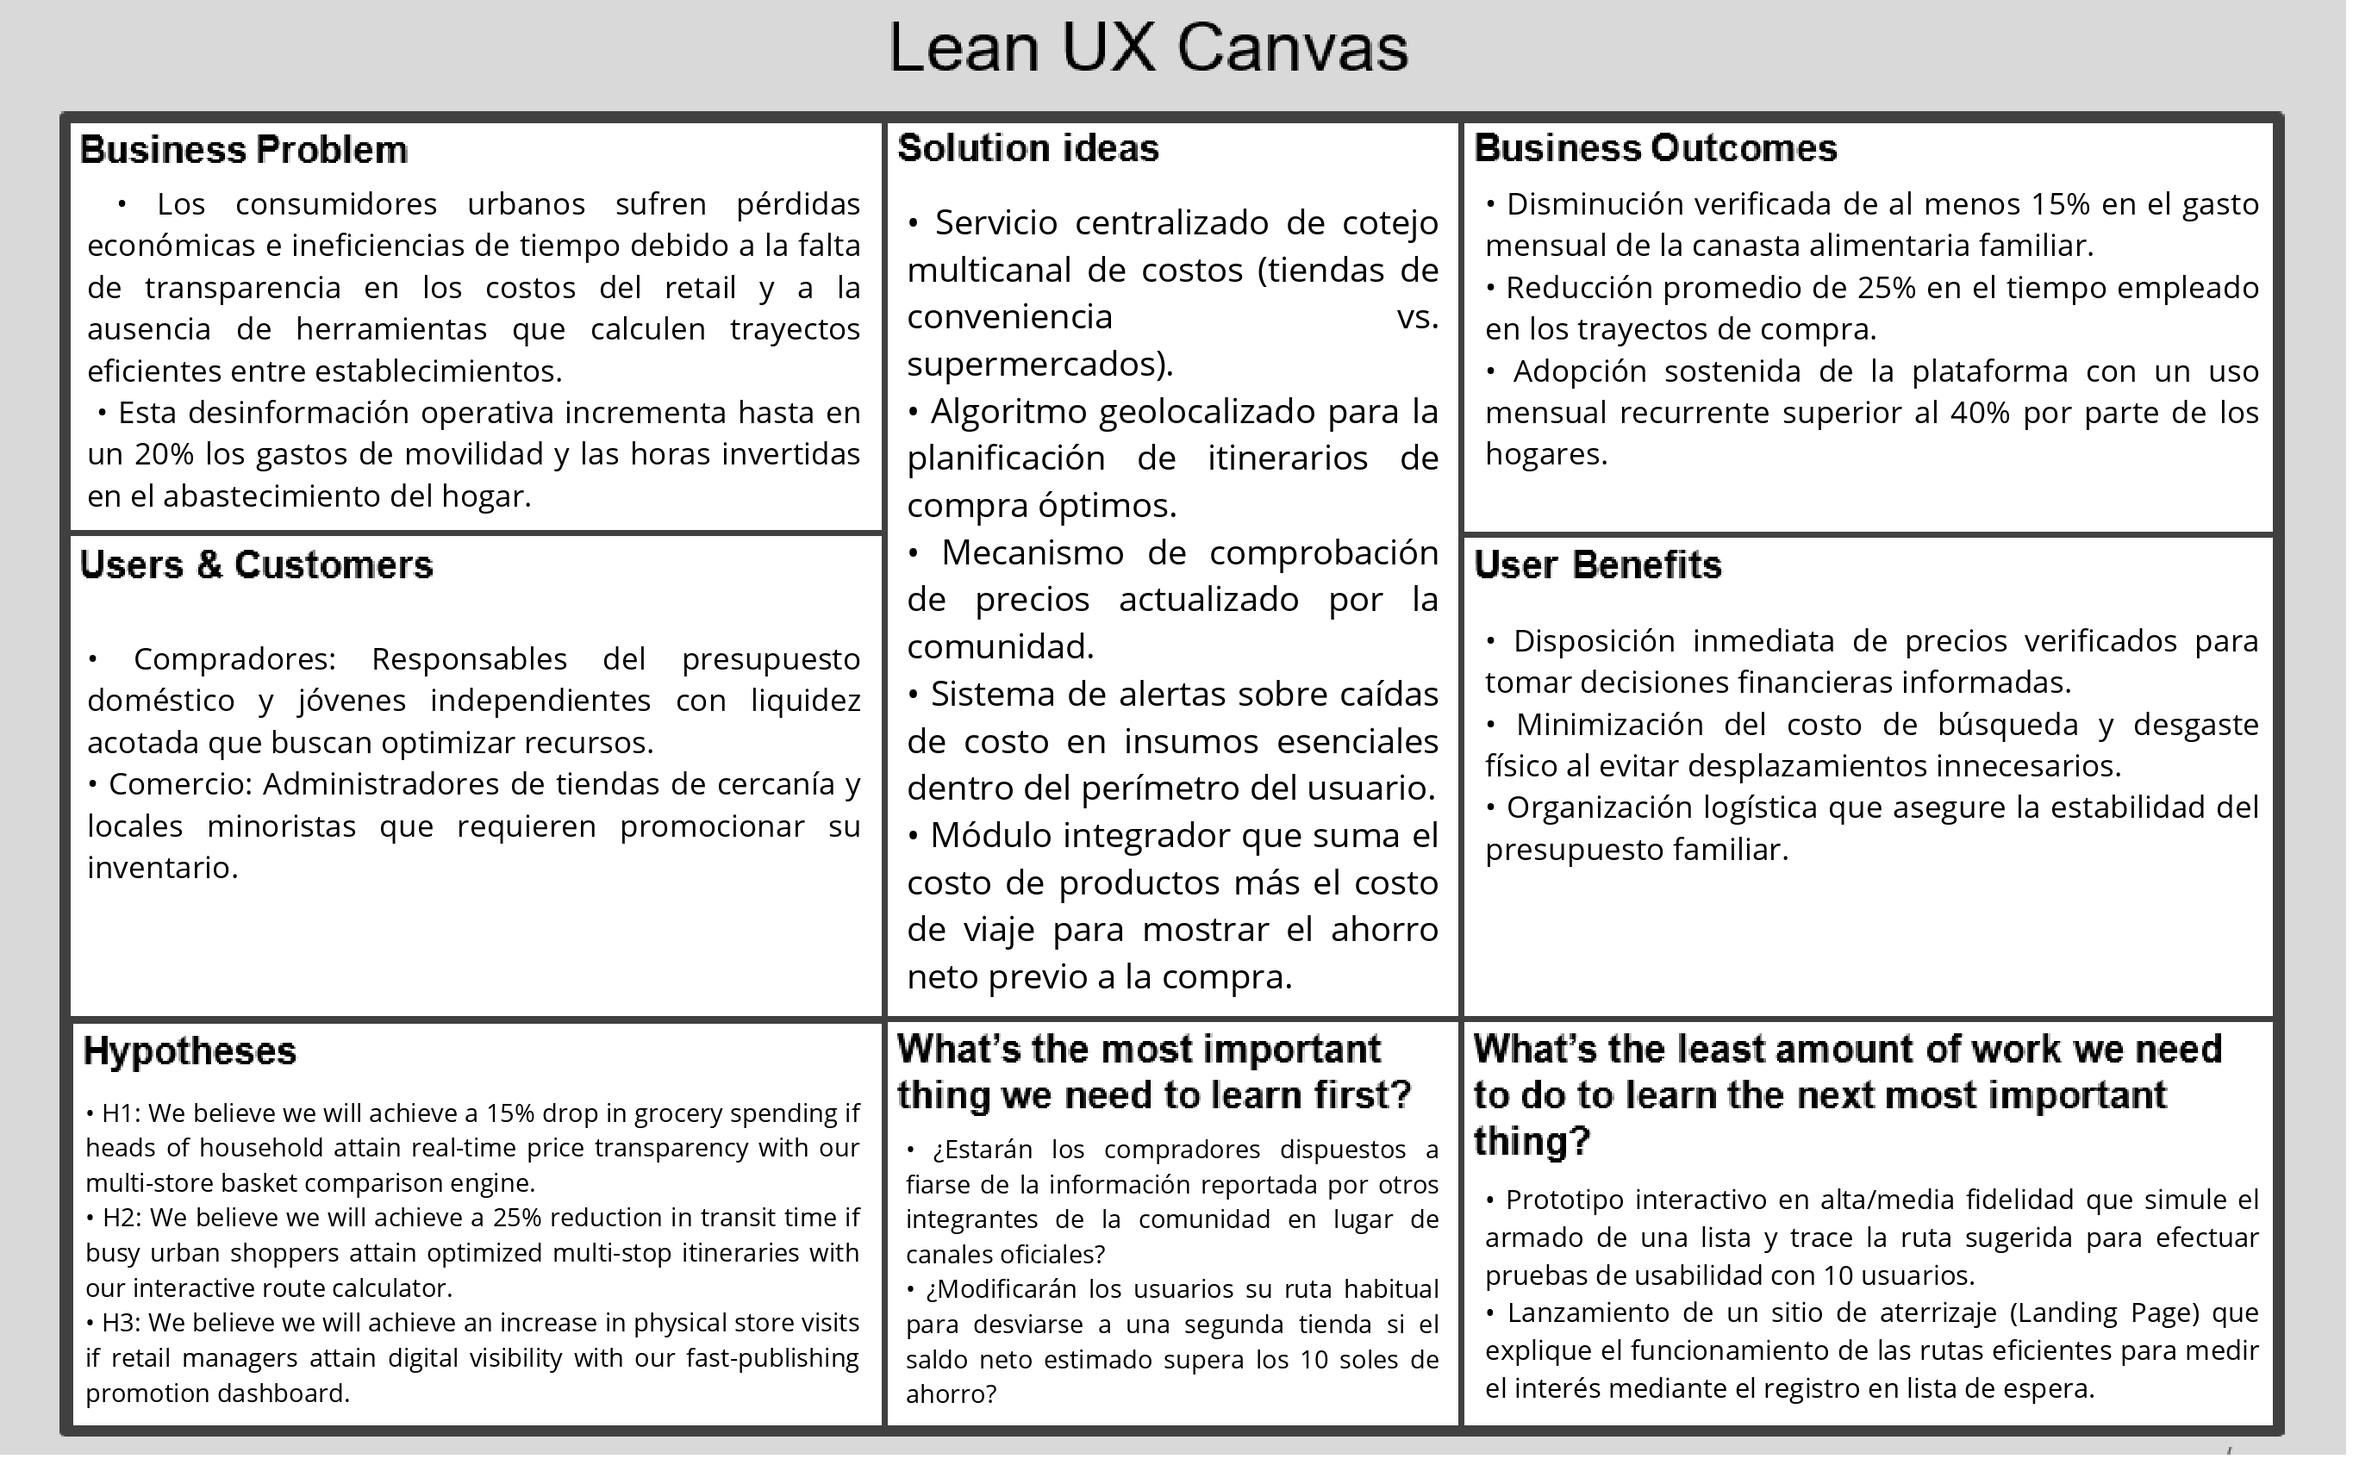
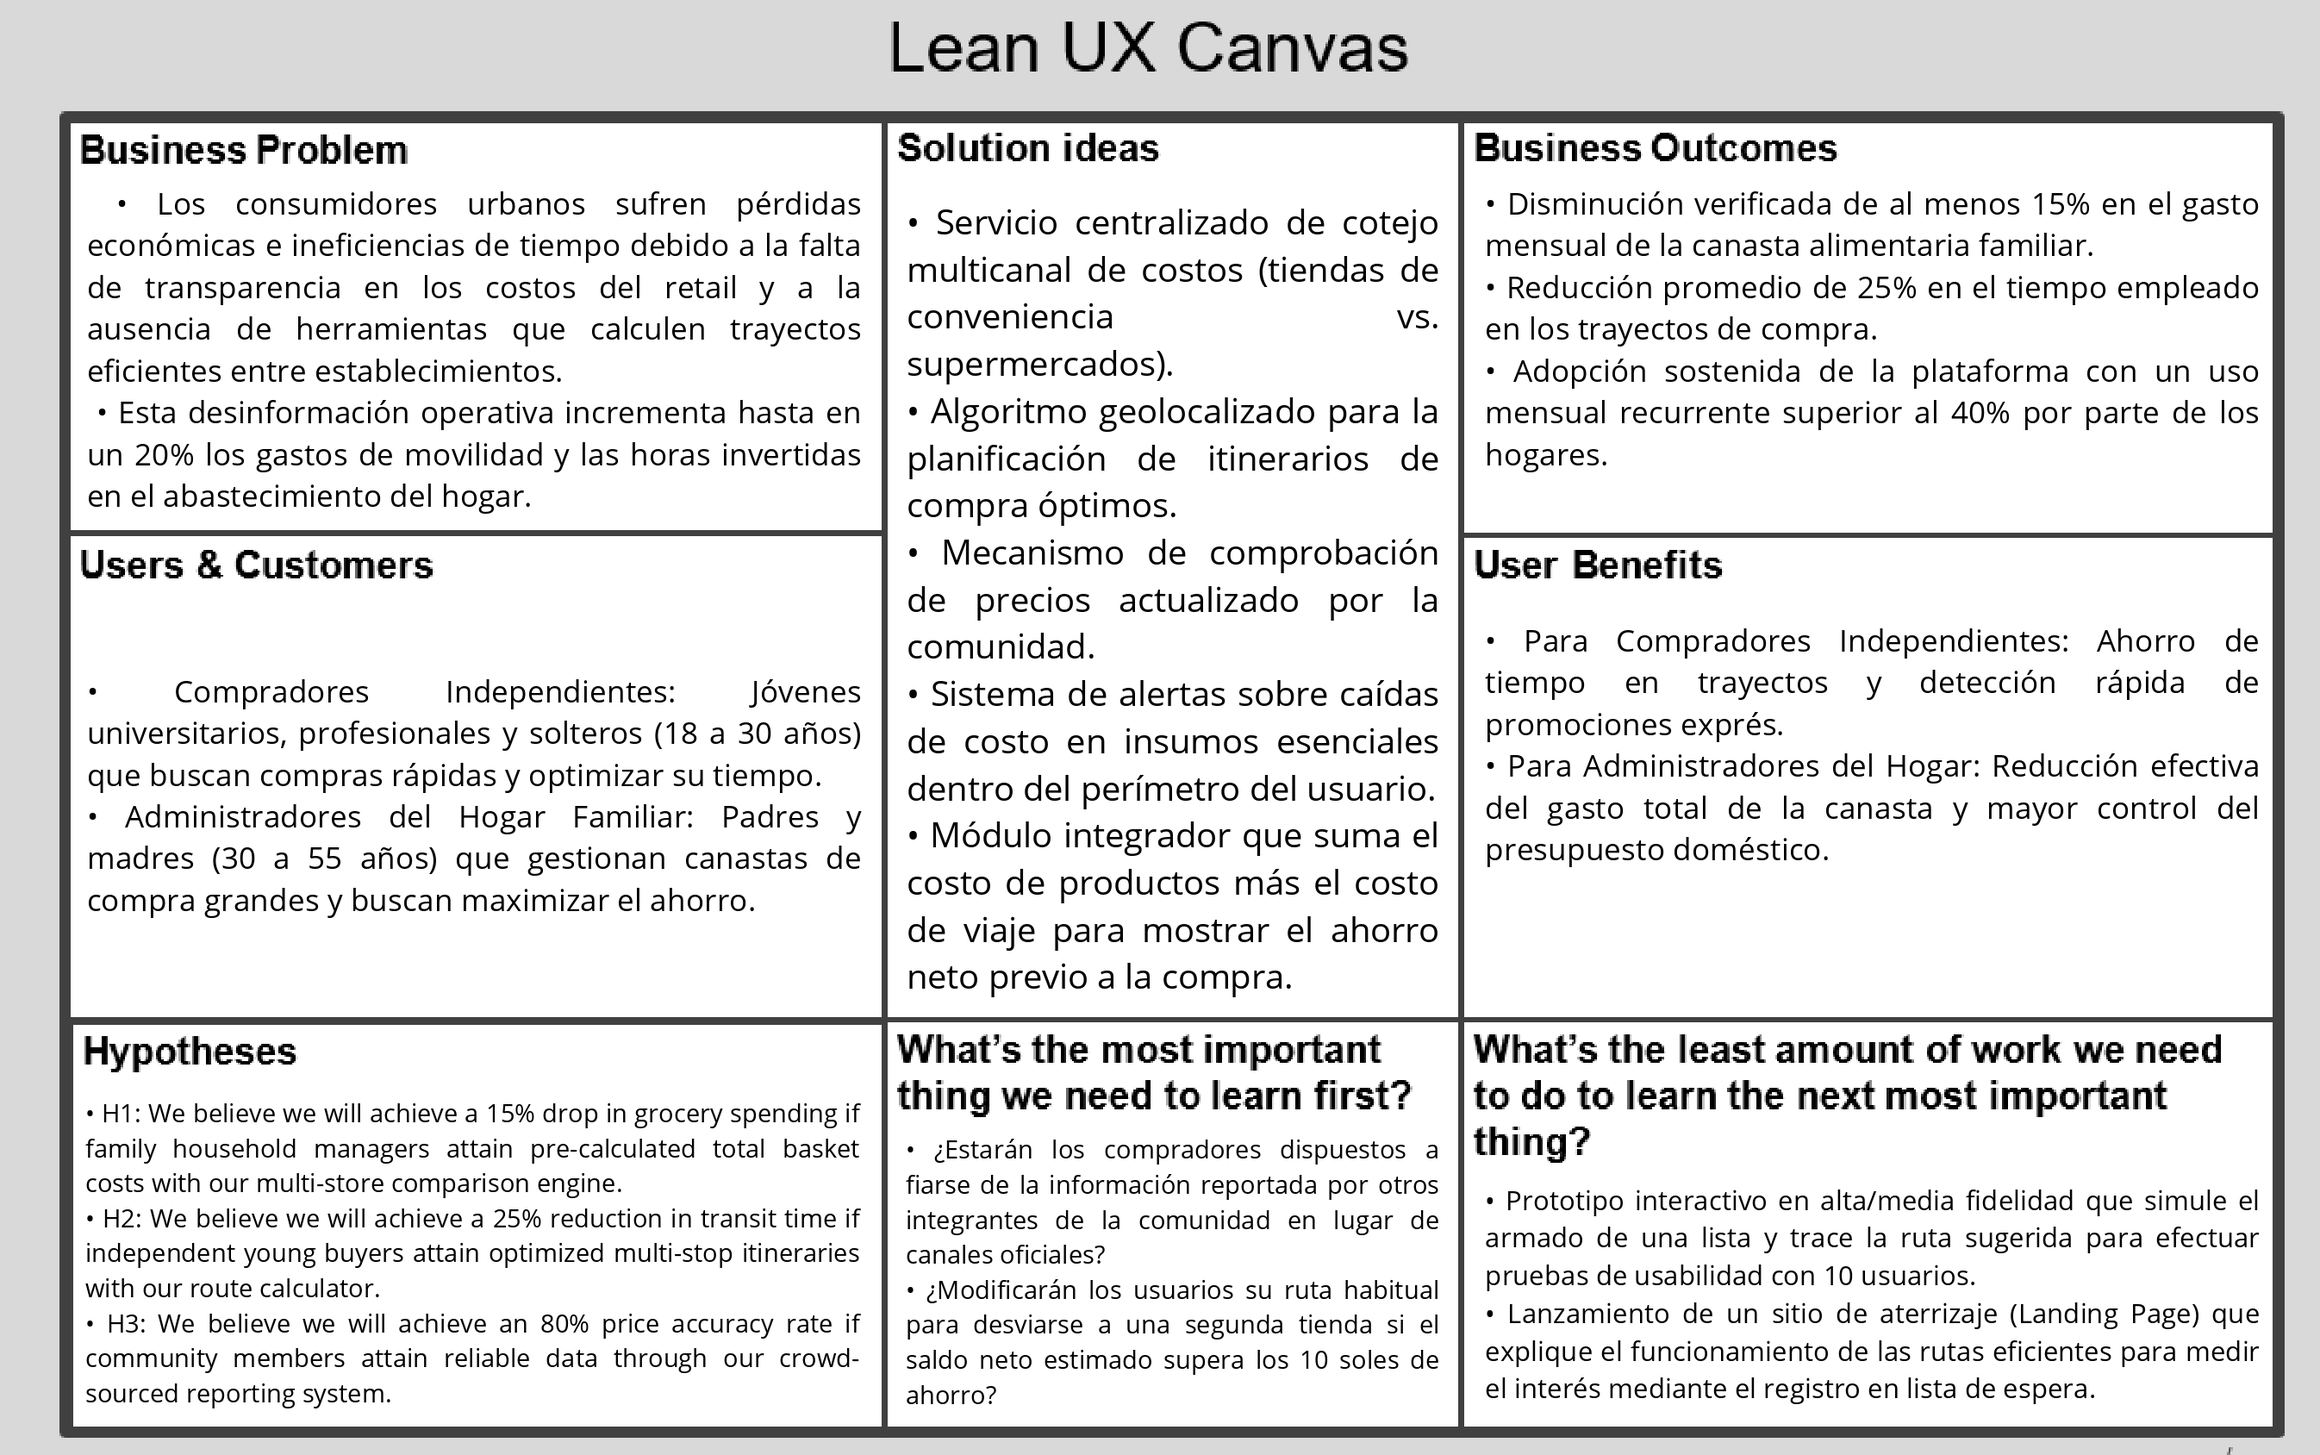
docs: update and refine chapter 1 content

Changed region(s): [[0.0, 0.0, 1.0, 1.0]]

diff --git a/docs/informe.md b/docs/informe.md
@@ -241,8 +241,8 @@ Poseo experiencia en en el lenguaje C++ y Python, lo que me permite contribuir e
 
 ### 1.2.1. Antecedentes y problemática
 *   **Who? (¿Quién?):**
-    *   *Consumidores:* Estudiantes, jóvenes profesionales y responsables del abastecimiento en hogares de Lima Metropolitana que cuentan con un presupuesto ajustado y buscan optimizar su tiempo libre.
-    *   *Comerciantes:* Administradores y encargados de tiendas de conveniencia (Tambo, Oxxo, Listo) y cadenas de supermercados o discounters (Mass, Plaza Vea, Metro) que necesitan promocionar su inventario local, evitar la merma de productos y atraer más clientes a sus locales físicos.
+    *   *Compradores Independientes:* Jóvenes universitarios, profesionales y adultos independientes (18 a 30 años) con presupuesto acotado y disponibilidad de tiempo reducida que realizan compras frecuentes de menor volumen en establecimientos de cercanía.
+    *   *Administradores del Hogar Familiar:* Padres, madres o encargados del presupuesto doméstico (30 a 55 años) que gestionan listas de compra complejas y de alto volumen (semanales o mensuales) para sus familias y buscan maximizar el ahorro acumulado.
 *   **What? (¿Qué?):** La falta de información clara sobre precios y la ineficiencia al planificar los recorridos de compra en el comercio minorista. Actualmente existe una diferencia marcada entre los precios publicados en internet y los costos reales en los estantes de las tiendas. A esto se suma que las personas no tienen una forma sencilla de comparar el costo total de su lista entre varios comercios cercanos. Esta desconexión genera gastos dobles: se paga más por los productos y se gasta dinero y tiempo extra en desplazamientos mal organizados para intentar conseguir ofertas (BCRP, 2025; INEI, 2026).
 *   **Where? (¿Dónde?):** El problema se concentra en distritos y zonas urbanas de Lima con alta presencia comercial, donde existen múltiples tiendas a pocas cuadras de distancia. La solución está dirigida a personas con acceso a teléfonos inteligentes y a administradores de locales que quieren mejorar la visibilidad de su tienda en su zona cercana.
 *   **When? (¿Cuándo?):** Ocurre cada vez que las familias organizan sus compras de la semana o cuando necesitan reponer productos de manera rápida. La situación se vuelve crítica durante los fines de semana o en días de promociones especiales, cuando el inventario cambia rápido y las ofertas varían sin previo aviso.
@@ -256,17 +256,17 @@ El proceso de Lean UX adoptado por PeruTech busca validar de forma rápida y con
 
 #### 1.2.2.1. Lean UX Problem Statements
 
-> **The current state of** retail shopping and local store management in Lima Metropolitan Area **has focused mainly on** individual supermarket discounts, traditional physical price browsing, and isolated mobile delivery apps that prioritize home delivery fees over local store foot traffic.  
-> **What existing products/services fail to address is** the lack of a unified system that calculates the true total cost of a shopping trip—combining real-time store prices, multi-stop routing efficiency, and transit expenses—while giving local managers an agile channel to clear overstocked inventory.  
-> **Our product/service will address this gap by** providing a collaborative web platform that processes store prices, inventory updates, transportation costs, and user budget limits to generate the most efficient multi-store shopping route, while offering store managers a simple tool to announce local discounts.  
-> **Our initial focus will be** budget-conscious shoppers (students and young adults in Lima) and branch managers of proximity/convenience retail stores.  
-> **We’ll know we are successful when we see** budget-conscious shoppers regularly completing multi-store purchases using our generated routes and store managers actively updating local discount offers.
+> **The current state of** retail shopping and grocery planning in Lima Metropolitan Area **has focused mainly on** isolated supermarket discounts, traditional physical price browsing, and delivery apps that charge high service fees without optimizing multi-store routes.  
+> **What existing products/services fail to address is** the lack of a unified system that calculates the true total cost of a shopping trip—combining real-time store prices, multi-stop routing efficiency, and transit expenses—to help shoppers make cost-effective decisions.  
+> **Our product/service will address this gap by** providing a collaborative web platform, **SmartCart**, that processes store prices, inventory updates, transportation costs, and user budget limits to generate the most efficient multi-store shopping route.  
+> **Our initial focus will be** independent young buyers and family household managers in Lima Metropolitan Area.  
+> **We’ll know we are successful when we see** independent buyers and household managers regularly completing multi-store purchases using our generated routes and verified price data.
 
 #### 1.2.2.2. Lean UX Assumptions
 
 ##### Assumptions Worksheet
 *   **¿Quién es el usuario?**
-    El sistema atiende a dos grupos: compradores (jefes de hogar, estudiantes y jóvenes independientes) que quieren hacer rendir mejor su dinero, y administradores de tiendas de conveniencia o supermercados que necesitan mover su inventario local más rápido.
+    El sistema atiende a dos perfiles de compradores urbanos: **Compradores Independientes** (jóvenes y profesionales que buscan rapidez y ofertas de cercanía) y **Administradores del Hogar Familiar** (gestores del presupuesto doméstico que planifican compras de mayor volumen).
 *   **¿Dónde encaja nuestro producto en su trabajo o vida?**
     Para las personas, entra en su rutina cuando preparan la lista del supermercado y cuando salen a hacer las compras. Para el encargado de tienda, se integra en sus labores diarias para dar salida a productos con alto stock.
 *   **¿Qué problemas resuelve nuestro producto?**
@@ -296,7 +296,7 @@ El proceso de Lean UX adoptado por PeruTech busca validar de forma rápida y con
 4.  Lograr que 6 de cada 10 tiendas participantes confirmen un aumento en la visita de clientes atraídos por las ofertas publicadas.
 
 ##### User Assumptions
-1.  **¿Quién es el usuario?** Hombres y mujeres de 18 a 50 años que realizan compras periódicas, y gestores de tiendas minoristas.
+1.  **¿Quién es el usuario?** Compradores independientes (18 a 30 años) y administradores del hogar familiar (30 a 55 años) pertenecientes a los niveles socioeconómicos B y C.
 2.  **¿Dónde encaja el producto?** Antes de salir a comprar y durante el recorrido por las tiendas.
 3.  **¿Qué problema resuelve?** Ayuda a elegir la mejor combinación de tiendas sin salirse del presupuesto disponible.
 4.  **¿Cuándo y cómo se usa?** Se consulta 1 o 2 veces por semana al momento de planificar las compras habituales.
@@ -314,27 +314,27 @@ El proceso de Lean UX adoptado por PeruTech busca validar de forma rápida y con
 
 #### 1.2.2.3. Lean UX Hypothesis Statements
 *   **Hypothesis Statement 1 (basado en Feature Assumption 1: Comparador de Canasta Integral):**
-    *   **We believe we will achieve** a 70% rate of active users completing at least one guided purchase in their first month and a overall platform user retention above 40%
-    *   **If** families and young adults managing a tight budget
-    *   **Attain** an accurate, pre-calculated total cost of their entire shopping list before leaving home
+    *   **We believe we will achieve** a 15% reduction in overall monthly grocery spending and a platform user retention rate above 40%
+    *   **If** family household managers handling high-volume shopping lists
+    *   **Attain** an accurate, pre-calculated total cost of their entire basket across multiple nearby stores
     *   **With** a comprehensive multi-store basket comparison engine (**Comparador de Canasta Integral**).
 
 *   **Hypothesis Statement 2 (basado en Feature Assumption 2: Calculador de Ruta con Límite de Gasto):**
-    *   **We believe we will achieve** an average reduction of 25% in the time users spend completing multi-store purchases
-    *   **If** urban shoppers looking to maximize both their time and money
-    *   **Attain** optimized shopping itineraries that strictly respect their maximum budget and transportation choices
+    *   **We believe we will achieve** an average reduction of 25% in total shopping trip duration
+    *   **If** independent young buyers with limited free time and mobility preferences
+    *   **Attain** optimized multi-stop shopping itineraries that strictly respect their maximum budget limit and travel mode
     *   **With** an interactive route calculator with budget caps (**Calculador de Ruta con Límite de Gasto**).
 
 *   **Hypothesis Statement 3 (basado en Feature Assumption 3: Validador de Precios por Usuarios):**
     *   **We believe we will achieve** an 80% price verification accuracy rate between reported shelf prices and actual checkout counter costs
-    *   **If** active members of the shopping community
-    *   **Attain** high trust in platform data accuracy and recognition for contributing real-time updates
+    *   **If** active users from both independent and household manager segments
+    *   **Attain** high trust in platform data accuracy and recognition for contributing real-time price reports
     *   **With** a crowd-sourced price reporting and verification system (**Validador de Precios por Usuarios**).
 
 *   **Hypothesis Statement 4 (basado en Feature Assumption 4: Panel de Ofertas para Comercio):**
-    *   **We believe we will achieve** a 20% drop in food waste/expiration and a 60% rate of partner stores reporting increased foot traffic
-    *   **If** local retail store managers dealing with overstocked inventory
-    *   **Attain** immediate local visibility for time-sensitive discounts to draw nearby shoppers into their physical stores
+    *   **We believe we will achieve** a 20% increase in store foot traffic from nearby buyers looking for immediate discounts
+    *   **If** independent buyers seeking short-term deals and promotions
+    *   **Attain** real-time visibility of local store offers within their immediate geographic perimeter
     *   **With** a fast-publishing promotion dashboard for store managers (**Panel de Ofertas para Comercio**).
 
 #### 1.2.2.4. Lean UX Canvas
@@ -342,16 +342,11 @@ El proceso de Lean UX adoptado por PeruTech busca validar de forma rápida y con
 <img src="/assets/lean-ux-canvas.png" alt="UPC Logo" width="150"/>
 
 ## 1.3. Segmentos objetivo
+### 1. Compradores Independientes
+Este segmento comprende a jóvenes universitarios, jóvenes profesionales y adultos solteros (de 18 a 30 años) pertenecientes a los niveles socioeconómicos B y C que viven solos o comparten vivienda. Se caracterizan por realizar compras de volumen bajo o medio de manera frecuente y por contar con un tiempo limitado para el abastecimiento. Sus decisiones de compra están fuertemente guiadas por la conveniencia geográfica, el aprovechamiento de descuentos inmediatos y la optimización de sus traslados, desplazándose principalmente a pie o mediante transporte público. Para este grupo, la plataforma resuelve la falta de tiempo y la incertidumbre de precios en establecimientos de proximidad.
 
-### 1. Consumidores Finales (Compradores Planificadores)
-Este grupo está integrado principalmente por personas de 20 a 50 años que residen en zonas urbanas y pertenecen a los niveles socioeconómicos B y C. Debido a que representan la mayor parte del gasto en alimentos del hogar, su comportamiento de compra se ha vuelto más cauteloso, repartiendo sus compras entre distintas tiendas para cuidar el presupuesto (Kantar Worldpanel, 2025). Ante el incremento en el costo de vida, estos compradores prefieren planificar sus compras con anticipación. Esto genera la necesidad de contar con soluciones digitales sencillas que eliminen la duda sobre dónde comprar más barato, permitiéndoles organizar su lista de forma eficiente para proteger su dinero (BCRP, 2025).
-
-### 2. Establecimientos de Retail (Supermercados y Tiendas de Conveniencia)
-Este segmento abarca a los comercios del sector minorista moderno, organizados en dos formatos principales que compiten diariamente por atraer clientes:
-*   **Tiendas de Proximidad:** Cadenas de conveniencia (Tambo, Oxxo) y tiendas de descuento (Mass), enfocadas en compras rápidas, de paso o para cubrir emergencias del día.
-*   **Supermercados de Mayor Tamaño:** Establecimientos (Plaza Vea, Metro, Tottus) orientados a compras semanales o mensuales de mayor volumen, donde compiten mediante marcas propias y ofertas especiales por paquete (KPMG, 2025).
-
-Para ambos formatos funciona como un canal directo de atracción de público: ayuda a que las tiendas de conveniencia vendan más rápido sus ofertas del día y a que los supermercados muestren su competitividad en compras grandes, asegurando que más clientes crucen sus puertas.
+### 2. Administradores del Hogar Familiar
+Este grupo está integrado por padres, madres o responsables de la economía doméstica (de 30 a 55 años) en hogares de los niveles socioeconómicos B y C. Su perfil se distingue por gestionar canastas de compra complejas y de volumen elevado (semanales o mensuales), donde pequeñas variaciones de costo unitario representan un impacto significativo en el presupuesto familiar. Tienen una alta disposición a planificar sus recorridos con anticipación y a visitar más de un establecimiento si el ahorro neto justificara el desplazamiento. Para este segmento, la plataforma actúa como una herramienta de control financiero y eficiencia logística.
 
 ---
 
